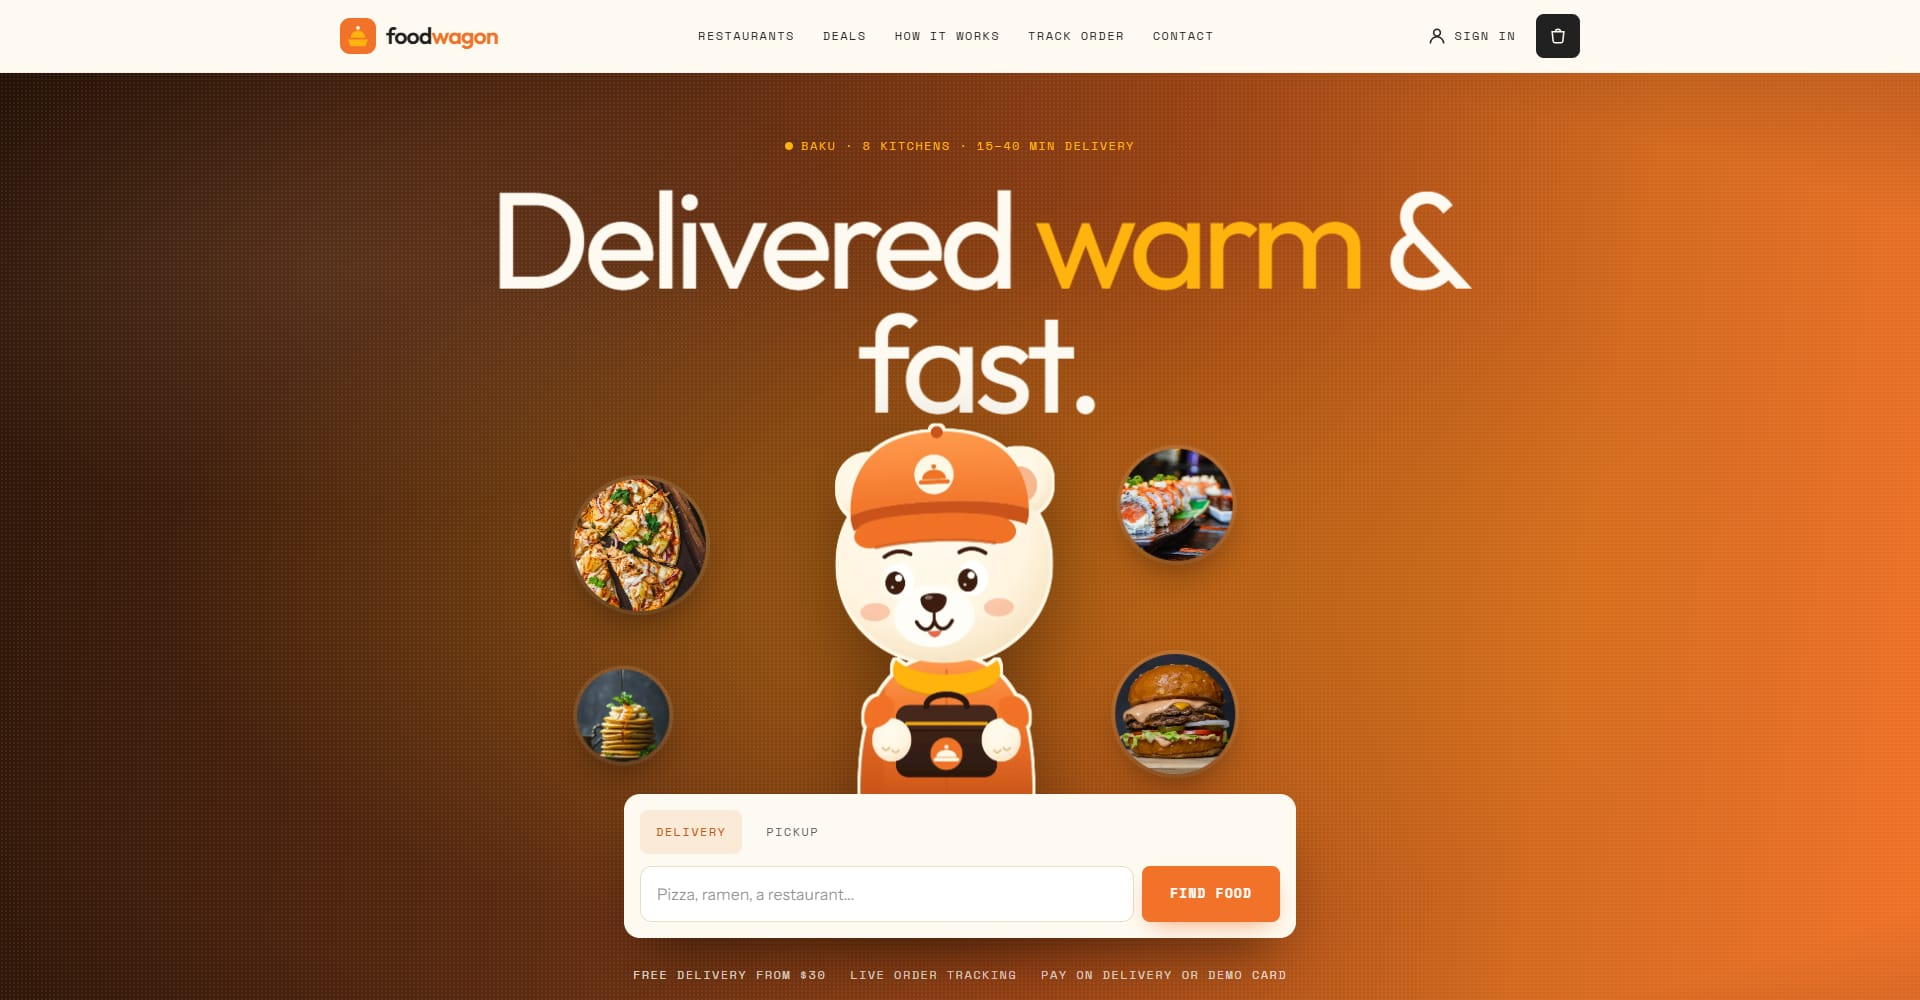
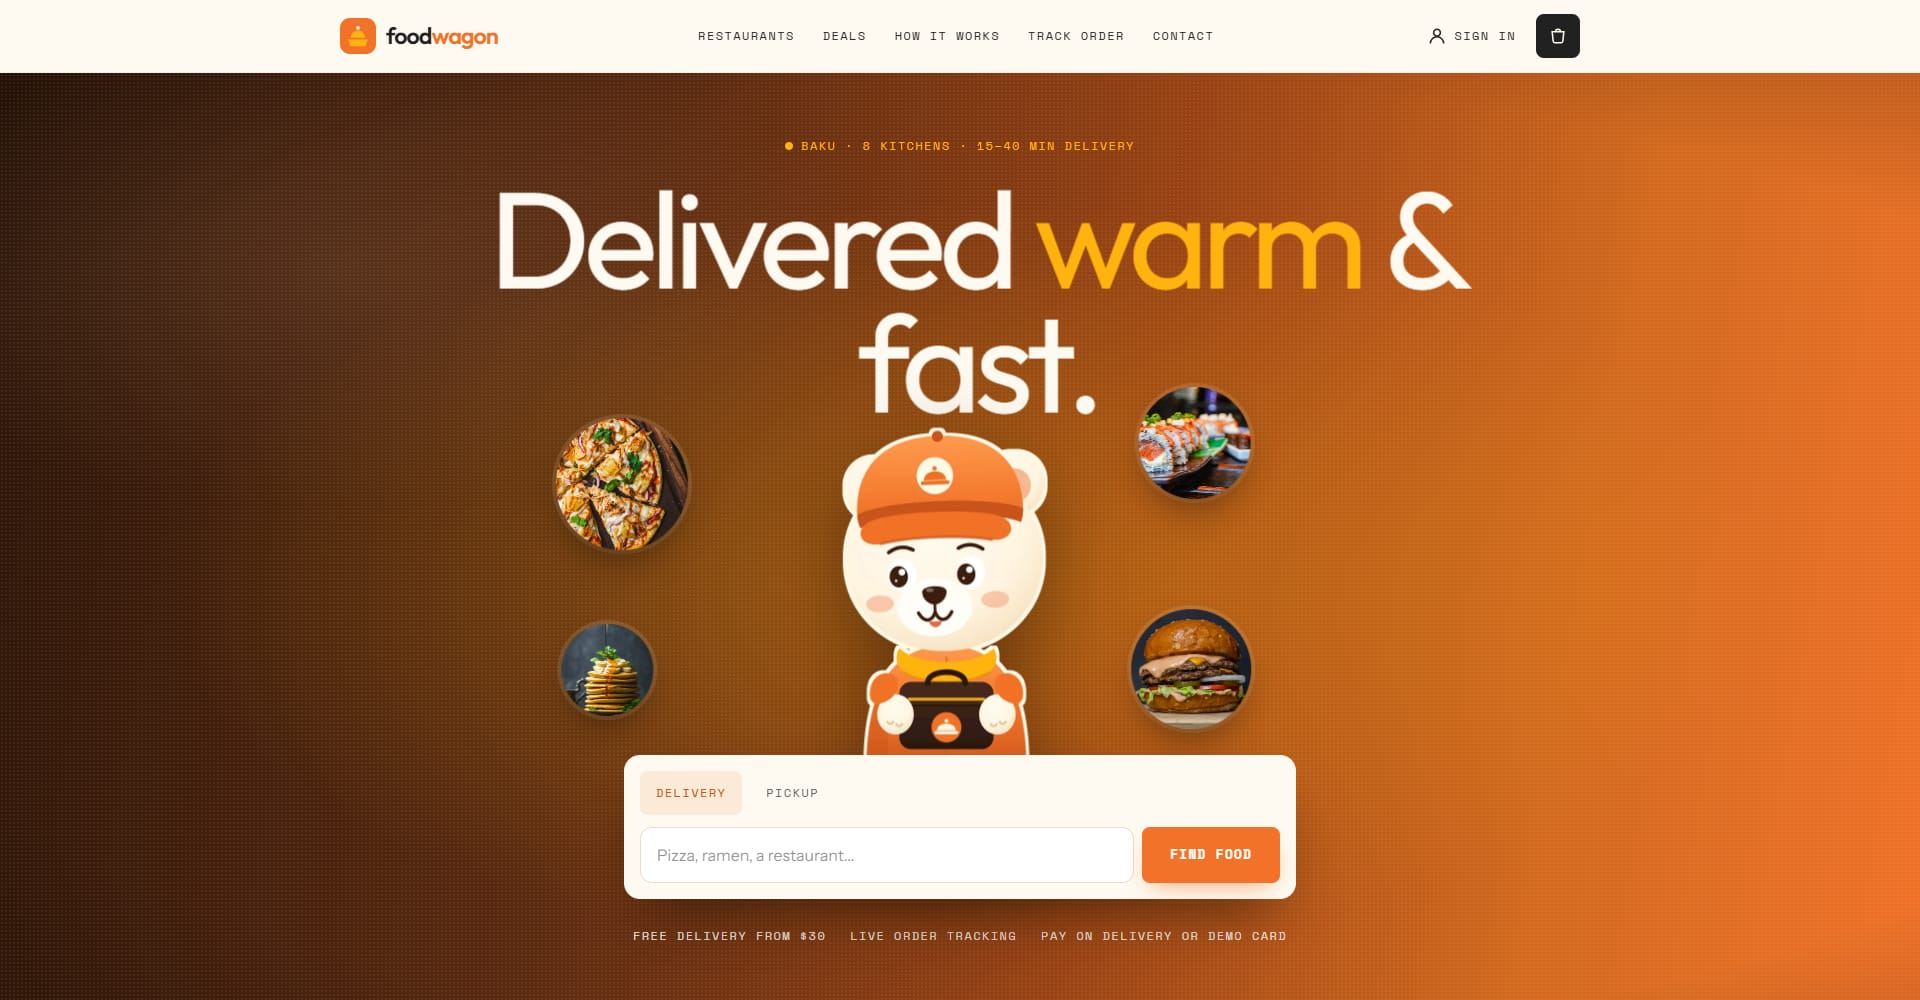
Hero: keep main's layout exactly, draw sprite frames on a canvas
Review fixes for the courier bear hero.

- Stage box is main's again (-mt clamp(20px,4vw,72px), width
  clamp(220px,25vw,400px)), in hero.tsx and in the static copy in index.html.
  Headline, search card, "Free delivery" row, hero height and everything below
  measure the same as main at 1920/1440/1024/768/390/320.
- The bear is placed inside the 4:5 image instead (tools/hero-mascot.cjs:
  smaller and lower, bag held a little higher): the cap stays clear of the
  headline also at the top of the idle float, the whole bag shows above the
  search card.
- The sprite frames are drawn on a <canvas> over the still instead of a CSS
  background. A canvas is not an LCP candidate, so the preloaded still stays the
  LCP element and LCP no longer waits for the sheet.
- Hero screenshots and og-image regenerated.

Changed region(s): [[0.2812, 0.372, 0.6875, 0.992]]

diff --git a/frontend/index.html b/frontend/index.html
@@ -76,7 +76,7 @@
 
     <main id="main">
       <!-- Static copy of <Hero /> (src/components/site/hero.tsx): first paint already matches the React render, so nothing shifts when it mounts. Keep in sync. -->
-      <div id="hero-root"><section class="hero" aria-labelledby="hero-title" data-state="idle"><div class="hero__bg" aria-hidden="true"></div><div class="hero__grain" aria-hidden="true"></div><div class="container-x relative flex flex-col items-center pt-[clamp(28px,5vw,64px)] pb-[clamp(40px,5vw,72px)] text-center"><p class="mono flex items-center gap-2 text-secondary"><span class="inline-block size-2 rounded-full bg-secondary" aria-hidden="true"></span>Baku · 8 kitchens · 15–40 min delivery</p><h1 id="hero-title" class="display hero__title relative z-0 mt-5 max-w-[7.87em]"><span class="sr-only">Food Wagon, food delivery in Baku: </span>Delivered <em>warm</em> &amp; fast.</h1><div class="hero__stage relative z-10 -mt-[clamp(2px,0.6vw,8px)] w-[clamp(212px,22.5vw,380px)]"><span class="hero__chip hidden sm:block left-[-40%] top-[14%] size-[clamp(64px,9vw,132px)]" aria-hidden="true" style="--d: 46;"><img alt="" width="132" height="132" loading="eager" src="images/pizza.webp"></span><span class="hero__chip hidden sm:block right-[-38%] top-[8%] size-[clamp(56px,7.5vw,112px)]" aria-hidden="true" style="--d: 64;"><img alt="" width="132" height="132" loading="eager" src="images/sushi.webp"></span><span class="hero__chip hidden sm:block right-[-30%] bottom-[24%] size-[clamp(60px,8vw,120px)]" aria-hidden="true" style="--d: 30;"><img alt="" width="132" height="132" loading="eager" src="images/burger.webp"></span><span class="hero__chip hidden sm:block left-[-30%] bottom-[26%] size-[clamp(48px,6vw,92px)]" aria-hidden="true" style="--d: 82;"><img alt="" width="132" height="132" loading="eager" src="images/pancakes.webp"></span><div class="hero__float"><div class="hero__character aspect-[4/5]"><img alt="Food Wagon&#x27;s courier bear holding a delivery bag" width="1200" height="1500" fetchpriority="high" class="size-full object-contain" src="hero/character.webp"></div></div></div><form action="restaurants.html" role="search" aria-label="Find food" class="relative z-20 -mt-[clamp(48px,6vw,96px)] w-full max-w-2xl rounded-2xl bg-background p-3 text-left text-foreground shadow-[0_30px_60px_-24px_rgba(20,8,2,.65)] sm:p-4"><div class="mb-3 flex gap-2" role="group" aria-label="Order type"><button type="button" aria-pressed="true" class="mono min-h-11 rounded-lg px-4 text-[0.75rem] transition-colors bg-primary/12 text-primary-strong">Delivery</button><button type="button" aria-pressed="false" class="mono min-h-11 rounded-lg px-4 text-[0.75rem] transition-colors text-muted-foreground hover:bg-foreground/5">Pickup</button></div><div class="flex flex-col gap-2 sm:flex-row"><label for="hero-q" class="sr-only">What are you craving?</label><input id="hero-q" name="q" placeholder="Pizza, ramen, a restaurant..." autocomplete="off" class="min-h-14 flex-1 rounded-xl border border-border bg-card px-4 text-base focus:border-primary focus:outline-none" type="search" value=""><button type="submit" class="inline-flex items-center justify-center gap-2 rounded-lg font-mono font-bold uppercase tracking-[0.1em] whitespace-nowrap no-underline transition-[background,color,border-color,transform,box-shadow] duration-300 ease-[var(--ease-expo)] active:translate-y-px disabled:pointer-events-none disabled:opacity-50 cursor-pointer bg-primary text-white hover:bg-primary-strong shadow-[0_10px_24px_-10px_rgba(241,114,40,.7)] min-h-14 px-7 text-[0.8rem]">Find food</button></div></form><ul class="mono mt-7 flex flex-wrap justify-center gap-x-6 gap-y-2 text-background/85"><li>Free delivery from $30</li><li>Live order tracking</li><li>Pay on delivery or demo card</li></ul></div></section></div>
+      <div id="hero-root"><section class="hero" aria-labelledby="hero-title" data-state="idle"><div class="hero__bg" aria-hidden="true"></div><div class="hero__grain" aria-hidden="true"></div><div class="container-x relative flex flex-col items-center pt-[clamp(28px,5vw,64px)] pb-[clamp(40px,5vw,72px)] text-center"><p class="mono flex items-center gap-2 text-secondary"><span class="inline-block size-2 rounded-full bg-secondary" aria-hidden="true"></span>Baku · 8 kitchens · 15–40 min delivery</p><h1 id="hero-title" class="display hero__title relative z-0 mt-5 max-w-[7.87em]"><span class="sr-only">Food Wagon, food delivery in Baku: </span>Delivered <em>warm</em> &amp; fast.</h1><div class="hero__stage relative z-10 -mt-[clamp(20px,4vw,72px)] w-[clamp(220px,25vw,400px)]"><span class="hero__chip hidden sm:block left-[-40%] top-[14%] size-[clamp(64px,9vw,132px)]" aria-hidden="true" style="--d: 46;"><img alt="" width="132" height="132" loading="eager" src="images/pizza.webp"></span><span class="hero__chip hidden sm:block right-[-38%] top-[8%] size-[clamp(56px,7.5vw,112px)]" aria-hidden="true" style="--d: 64;"><img alt="" width="132" height="132" loading="eager" src="images/sushi.webp"></span><span class="hero__chip hidden sm:block right-[-30%] bottom-[24%] size-[clamp(60px,8vw,120px)]" aria-hidden="true" style="--d: 30;"><img alt="" width="132" height="132" loading="eager" src="images/burger.webp"></span><span class="hero__chip hidden sm:block left-[-30%] bottom-[26%] size-[clamp(48px,6vw,92px)]" aria-hidden="true" style="--d: 82;"><img alt="" width="132" height="132" loading="eager" src="images/pancakes.webp"></span><div class="hero__float"><div class="hero__character aspect-[4/5]"><img alt="Food Wagon&#x27;s courier bear holding a delivery bag" width="1200" height="1500" fetchpriority="high" class="size-full object-contain" src="hero/character.webp"></div></div></div><form action="restaurants.html" role="search" aria-label="Find food" class="relative z-20 -mt-[clamp(48px,6vw,96px)] w-full max-w-2xl rounded-2xl bg-background p-3 text-left text-foreground shadow-[0_30px_60px_-24px_rgba(20,8,2,.65)] sm:p-4"><div class="mb-3 flex gap-2" role="group" aria-label="Order type"><button type="button" aria-pressed="true" class="mono min-h-11 rounded-lg px-4 text-[0.75rem] transition-colors bg-primary/12 text-primary-strong">Delivery</button><button type="button" aria-pressed="false" class="mono min-h-11 rounded-lg px-4 text-[0.75rem] transition-colors text-muted-foreground hover:bg-foreground/5">Pickup</button></div><div class="flex flex-col gap-2 sm:flex-row"><label for="hero-q" class="sr-only">What are you craving?</label><input id="hero-q" name="q" placeholder="Pizza, ramen, a restaurant..." autocomplete="off" class="min-h-14 flex-1 rounded-xl border border-border bg-card px-4 text-base focus:border-primary focus:outline-none" type="search" value=""><button type="submit" class="inline-flex items-center justify-center gap-2 rounded-lg font-mono font-bold uppercase tracking-[0.1em] whitespace-nowrap no-underline transition-[background,color,border-color,transform,box-shadow] duration-300 ease-[var(--ease-expo)] active:translate-y-px disabled:pointer-events-none disabled:opacity-50 cursor-pointer bg-primary text-white hover:bg-primary-strong shadow-[0_10px_24px_-10px_rgba(241,114,40,.7)] min-h-14 px-7 text-[0.8rem]">Find food</button></div></form><ul class="mono mt-7 flex flex-wrap justify-center gap-x-6 gap-y-2 text-background/85"><li>Free delivery from $30</li><li>Live order tracking</li><li>Pay on delivery or demo card</li></ul></div></section></div>
 
       <section id="how" class="section dots" aria-labelledby="how-title">
         <div class="container-x">

diff --git a/frontend/src/components/site/hero.tsx b/frontend/src/components/site/hero.tsx
@@ -1,4 +1,4 @@
-import { useEffect, useRef, useState, type FormEvent } from "react";
+import { useEffect, useLayoutEffect, useRef, useState, type FormEvent } from "react";
 import { setCartField } from "@/lib/store.js";
 import { cn } from "@/lib/utils";
 import { Button } from "@/components/ui/button";
@@ -17,12 +17,12 @@ import { Button } from "@/components/ui/button";
 // character.webp is the still (1200 x 1500, transparent, looking straight ahead). It is the image in the static copy of
 // the hero in index.html (preloaded there), so it is what paints first, what shows without JavaScript, on touch-only
 // screens and under prefers-reduced-motion. The sprite sheet (SPRITE.frames frames side by side, gaze far left -> far
-// right, middle frame = the still) is fetched after mount and laid over the still once it has decoded, so the swap is
-// invisible and nothing shifts. To change the character, re-run the generator and keep both files the same size;
+// right, middle frame = the still) is fetched after mount and its frames are drawn on a <canvas> laid over the still once
+// it has decoded, so the swap is invisible and nothing shifts. A canvas is used on purpose: it is not a Largest
+// Contentful Paint candidate, so the preloaded still stays the LCP element and LCP never waits for the sheet. To change the character, re-run the generator and keep both files the same size;
 // if the alt text changes, change it in index.html too.
 export const CHARACTER = { src: "hero/character.webp", width: 1200, height: 1500, alt: "Food Wagon's courier bear holding a delivery bag" };
 export const SPRITE = { src: "hero/character-sprite.webp", frames: 9 }; // 0 = no sprite sheet, still image only
-const MID = SPRITE.frames > 1 ? Math.floor(SPRITE.frames / 2) / (SPRITE.frames - 1) : 0;
 
 const CHIPS = [
   { src: "images/pizza.webp", alt: "", cls: "left-[-40%] top-[14%] size-[clamp(64px,9vw,132px)]", d: 46 },
@@ -35,7 +35,8 @@ const clamp = (v: number) => Math.max(-1, Math.min(1, v));
 
 export function Hero() {
   const ref = useRef<HTMLElement>(null);
-  const spriteRef = useRef<HTMLDivElement>(null);
+  const spriteRef = useRef<HTMLCanvasElement>(null);
+  const paintRef = useRef<(force?: boolean) => void>(null);
   const [mode, setMode] = useState<"delivery" | "pickup">("delivery");
   const [q, setQ] = useState("");
   const [sprite, setSprite] = useState(false); // true once the sprite sheet has loaded and decoded
@@ -52,11 +53,43 @@ export function Hero() {
     let idle: ReturnType<typeof setTimeout> | undefined;
     const frames = SPRITE.frames;
     let alive = true;
+    let sheet: HTMLImageElement | undefined;
+    let drawn = -1;
+    // Draw the frame for the current pointer position; the backing store follows the displayed size (sharp at 2x).
+    const paint = (force = false) => {
+      const c = spriteRef.current;
+      if (!c || !sheet) return;
+      const fw = sheet.naturalWidth / frames;
+      const fh = sheet.naturalHeight;
+      const w = Math.max(1, Math.min(fw, Math.round(c.clientWidth * (window.devicePixelRatio || 1))));
+      const f = Math.round(((x + 1) / 2) * (frames - 1));
+      if (!force && f === drawn && c.width === w) return;
+      if (c.width !== w) {
+        c.width = w;
+        c.height = Math.round((w * fh) / fw);
+      }
+      const ctx = c.getContext("2d");
+      if (!ctx) return;
+      ctx.imageSmoothingQuality = "high";
+      ctx.clearRect(0, 0, c.width, c.height);
+      ctx.drawImage(sheet, f * fw, 0, fw, fh, 0, 0, c.width, c.height);
+      drawn = f;
+    };
+    paintRef.current = paint;
+    const onResize = () => paint(true);
     // The sheet only matters where a pointer can hover; phones keep the lighter still image.
     if (frames > 1 && window.matchMedia("(hover: hover) and (pointer: fine)").matches) {
       const img = new Image();
       img.src = SPRITE.src;
-      img.decode().then(() => alive && setSprite(true)).catch(() => {});
+      img
+        .decode()
+        .then(() => {
+          if (!alive) return;
+          sheet = img;
+          setSprite(true);
+          window.addEventListener("resize", onResize);
+        })
+        .catch(() => {});
     }
 
     const tick = () => {
@@ -64,10 +97,7 @@ export function Hero() {
       y += (ty - y) * 0.085;
       el.style.setProperty("--mx", x.toFixed(4));
       el.style.setProperty("--my", y.toFixed(4));
-      if (frames > 1 && spriteRef.current) {
-        const f = Math.round(((x + 1) / 2) * (frames - 1));
-        spriteRef.current.style.backgroundPosition = `${(f / (frames - 1)) * 100}% 0`;
-      }
+      paint();
       if (Math.abs(tx - x) > 0.0008 || Math.abs(ty - y) > 0.0008) raf = requestAnimationFrame(tick);
       else raf = 0;
     };
@@ -96,6 +126,8 @@ export function Hero() {
     reduce.addEventListener("change", onReduce);
     return () => {
       alive = false;
+      paintRef.current = null;
+      window.removeEventListener("resize", onResize);
       cancelAnimationFrame(raf);
       clearTimeout(idle);
       el.removeEventListener("pointermove", onMove);
@@ -103,6 +135,11 @@ export function Hero() {
       reduce.removeEventListener("change", onReduce);
     };
   }, []);
+
+  // First frame is on the canvas before the browser paints the commit that hides the still.
+  useLayoutEffect(() => {
+    if (sprite) paintRef.current?.(true);
+  }, [sprite]);
 
   const submit = (e: FormEvent) => {
     e.preventDefault();
@@ -129,7 +166,7 @@ export function Hero() {
           Delivered <em>warm</em> &amp; fast.
         </h1>
 
-        <div className="hero__stage relative z-10 -mt-[clamp(2px,0.6vw,8px)] w-[clamp(212px,22.5vw,380px)]">
+        <div className="hero__stage relative z-10 -mt-[clamp(20px,4vw,72px)] w-[clamp(220px,25vw,400px)]">
           {CHIPS.map((c) => (
             <span key={c.src} className={cn("hero__chip hidden sm:block", c.cls)} style={{ ["--d" as string]: c.d }} aria-hidden="true">
               <img src={c.src} alt={c.alt} width={132} height={132} loading="eager" />
@@ -145,14 +182,7 @@ export function Hero() {
                 fetchPriority="high"
                 className="size-full object-contain"
               />
-              {sprite ? (
-                <div
-                  ref={spriteRef}
-                  aria-hidden="true"
-                  className="hero__sprite"
-                  style={{ backgroundImage: `url(${SPRITE.src})`, backgroundSize: `${SPRITE.frames * 100}% 100%`, backgroundPosition: `${MID * 100}% 0` }}
-                />
-              ) : null}
+              {sprite ? <canvas ref={spriteRef} aria-hidden="true" className="hero__sprite" /> : null}
             </div>
           </div>
         </div>

diff --git a/frontend/src/styles/globals.css b/frontend/src/styles/globals.css
@@ -126,8 +126,8 @@
   will-change: transform;
 }
 .hero__character img, .hero__sprite { filter: drop-shadow(0 30px 40px rgba(20, 8, 2, 0.45)); }
-/* The sprite sheet lies exactly over the still image (same 4:5 box) and replaces it once it has decoded. */
-.hero__sprite { position: absolute; inset: 0; background-repeat: no-repeat; background-size: auto 100%; }
+/* The sprite frames are drawn on a canvas that lies exactly over the still image (same 4:5 box) and replaces it once the sheet has decoded. */
+.hero__sprite { position: absolute; inset: 0; width: 100%; height: 100%; }
 .hero__character[data-sprite] img { opacity: 0; }
 .hero[data-state="idle"] .hero__float { animation: hero-float 6s var(--ease-expo) infinite alternate; }
 @keyframes hero-float { from { transform: translateY(0); } to { transform: translateY(-10px); } }
